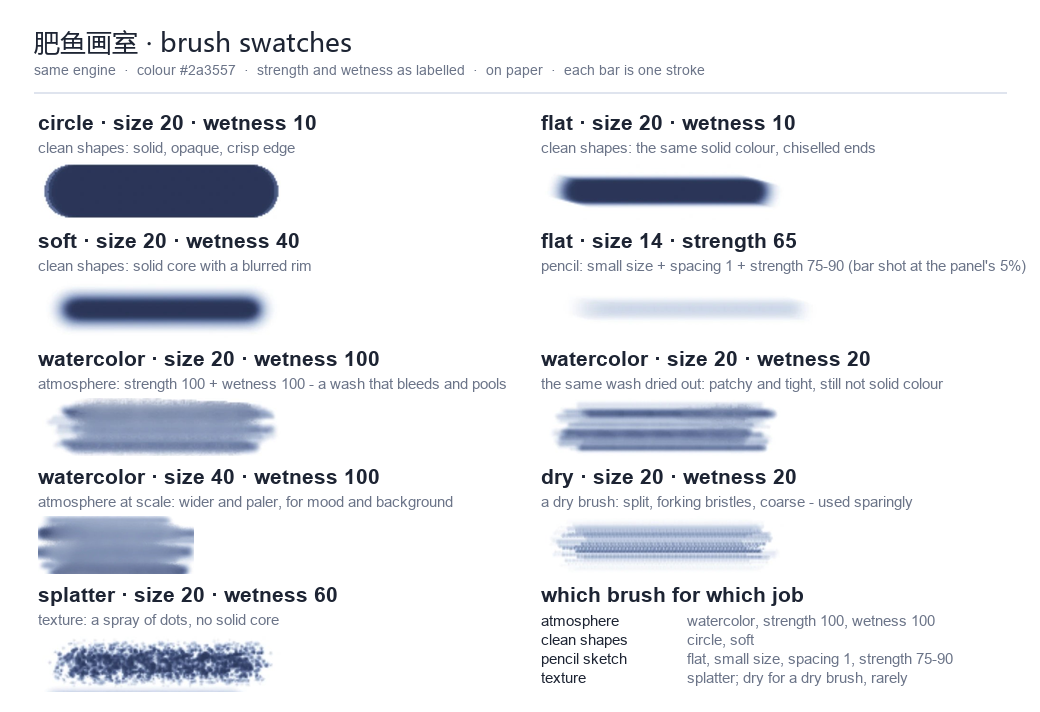
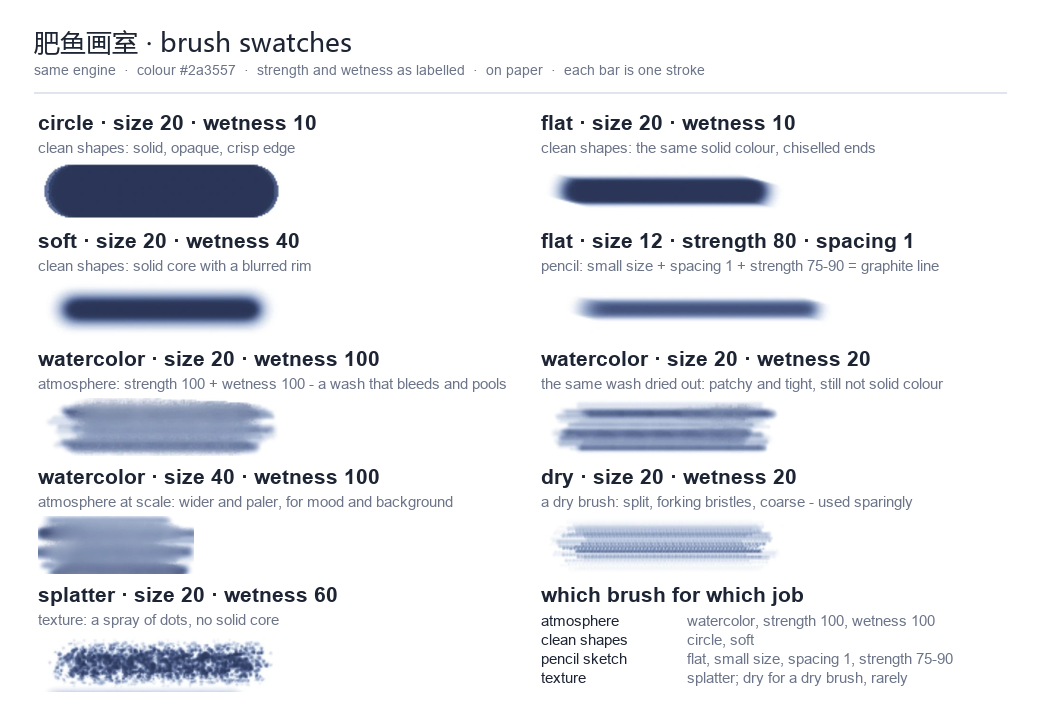
Re-shoot the pencil swatch with spacing 1
The first pencil bar was painted through the panel slider, which floors its spacing at 2.5px on small brushes: the card showed a pale hint instead of the graphite line. With per-stroke spacing live, the bar is now flat, size 12, strength 80, spacing 1 - a continuous grey line, which is what the recipe claims.

Changed region(s): [[0.5538, 0.4017, 0.8, 0.4635], [0.7692, 0.309, 0.9846, 0.4017], [0.7385, 0.309, 0.7692, 0.3399]]

diff --git a/docs/DETAIL.md b/docs/DETAIL.md
@@ -45,7 +45,7 @@ This is the plugin detail page. Install steps live in the repository README.
 |---|---|---|
 | `circle` | `#2A3557` | 满色、实心、边缘利落（任何尺寸都满色） |
 | `flat`，浓度 100 | `#2A3557` | 满色平涂，收笔更方更利 |
-| `flat`，小 size + 间距 1% + 浓度 75–90 | 淡成一层灰（样张那条是浓度 65 / 间距 5% 拍的，1% 更细） | 石墨铅笔线，适合线稿排线 |
+| `flat`，小 size + 间距 1% + 浓度 75–90 | 一条连续的灰线（样张那条：size 12 / 浓度 80 / 间距 1） | 石墨铅笔线，适合线稿排线 |
 | `soft` | `#2A3557`（中心） | 满色，边缘柔到晕开，喷枪手感 |
 | `watercolor`，湿 100 | `#8897B8` | 会洇的湿画：边缘积水、会漂，约五成沉积，尺寸越大越淡 |
 | `watercolor`，湿 20 | `#B2C0D8` | 同色但干涩断续，边缘收得住——刻意的干笔速写，不是"更实的平涂" |
